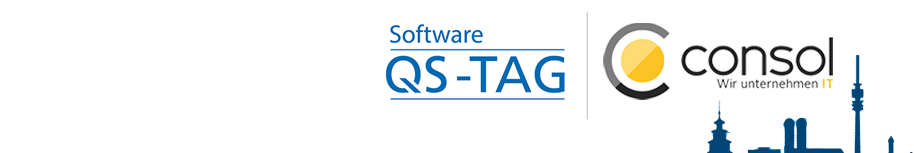
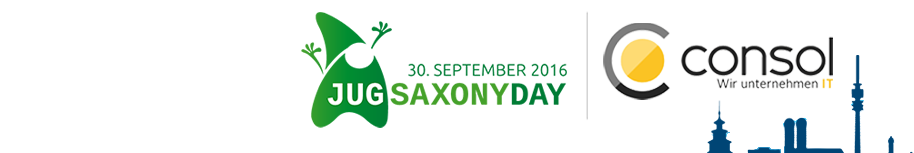
update for jug saxony day

Changed region(s): [[0.3063, 0.0784, 0.6433, 0.8366], [0.4289, 0.3137, 0.6127, 0.3399]]

diff --git a/index.html b/index.html
@@ -31,31 +31,24 @@
 <body>
 <div class="reveal">
     <div class="slides">
-        <section class="fully" data-background-image="pics/titelfolie_qs_tag_full.png">
-            <div style="width: 100%; height: 10em;"></div>
-            <!--<script>Reveal.configure({ controls: false });</script>-->
-            <!--<h2 style="padding-top: 2em; margin-bottom: 0;text-transform: none">-->
-            <!--Containerized End-2-End Testing-->
-            <!--</h2>-->
+        <section>
+            <h2 style="padding-top: 2em; margin-bottom: 0;text-transform: none">
+                Containerized End-2-End Testing
+            </h2>
 
-            <!--<h2 style="padding-top: 0.2em;">-->
-            <!--<img src="pics/sakuli-logo.png" style="width:5em; border: 0;box-shadow: none" alt="Sakuli">-->
-            <!--+-->
-            <!--<img src="pics/docker-img.jpg" style="width:5em; border: 0;box-shadow: none" alt="Docker">-->
-            <!--</h2>-->
+            <h2 style="padding-top: 0.2em;">
+                <img src="pics/sakuli-logo.png" style="width:5em; border: 0;box-shadow: none" alt="Sakuli">
+                +
+                <img src="pics/docker-img.jpg" style="width:5em; border: 0;box-shadow: none" alt="Docker">
+            </h2>
 
-            <!--&lt;!&ndash; Referent: Tobias Schneck, ConSol Software GmbH&ndash;&gt;-->
-            <!--<p style="padding-top: 6.5em; text-align: right">-->
-            <!--<small><a href="mailto:tobias.schneck@consol.de">Tobias Schneck</a>, <a-->
-            <!--href="http://www.consol.de">ConSol Software GmbH</a>-->
-            <!--</small>-->
-            <!--</br>-->
-            <!--</p>-->
-
-            <!--<div style="text-align: right; overflow: hidden; ">-->
-            <!--<img src="pics/background_first_slide_bottom.png"-->
-            <!--style="vertical-align:text-bottom; width:8em; border: 0;box-shadow: none"/>-->
-            <!--</div>-->
+            <!-- Referent: Tobias Schneck, ConSol Software GmbH-->
+            <p style="padding-top: 6.5em; text-align: right">
+                <small><a href="mailto:tobias.schneck@consol.de">Tobias Schneck</a>, <a
+                        href="http://www.consol.de">ConSol Software GmbH</a>
+                </small>
+                </br>
+            </p>
         </section>
 
         <section>
@@ -169,7 +162,7 @@
         <!--</section>-->
 
         <section>
-            <h1>2. Nutzen Container-Technologie</h1>
+            <h1>2. Nutzen<br/>Container-Technologie</h1>
         </section>
 
         <section>
@@ -276,7 +269,7 @@ docker run -it -p 5912:5901 -p 6912:6901 consol/centos-xfce-vnc
 
         <!--<section>-->
         <section>
-            <h1>3. Überblick Sakuli Framework</h1>
+            <h1>3. Überblick<br/>Sakuli Framework</h1>
         </section>
 
         <section>
@@ -421,7 +414,8 @@ docker run -it -p 5912:5901 -p 6912:6901 consol/centos-xfce-vnc
                     <td style="padding: 10px"></td>
                     <td width="47%" style="padding: 0; vertical-align: top; font-size: 0.7em">
                         <ul>
-                            <li>Aktionsbereich: <b>Bildschirm</b> -Inhalte <br/>(z.B. Rich-Clients, Browser-Plugins)</li>
+                            <li>Aktionsbereich: <b>Bildschirm</b> -Inhalte <br/>(z.B. Rich-Clients, Browser-Plugins)
+                            </li>
                             <li>Objekt-Adressierung über <br/><b>Image-Patterns</b> (Mini-Screenshots)</li>
                             <li>Off-Browser-Testing, sieht und steuert das, was der User sieht</li>
                             <li>Flexible Region-Patterns für die Navigation innerhalb des Bildschirms</li>
@@ -826,51 +820,38 @@ sakuli-tests/execute_all_4_monitoring.sh
         <section>
             <h2>Links</h2>
 
-            <table style="font-size: 0.8em">
+            <table style="font-size: 0.8em; padding-top: 0.5em">
                 <tr>
                     <td>
-                        <img src="pics/github.png" style="box-shadow: none; height: 7em; width: 100%">
+                        <img src="pics/github.png" style="box-shadow: none; height: 4em">
                     </td>
-                    <td style="vertical-align: middle">
+                    <td style="vertical-align: middle;  white-space:nowrap; padding-left: 1.5em">
                         <a href="https://github.com/ConSol/sakuli" target="_blank">
-                            <b>
-                                https://github.com/ConSol/sakuli
-                            </b>
+                            <img src="pics/github-mark.png" style="box-shadow: none; height: 35px"><b
+                                style="padding-left: 0.8em">ConSol/sakuli</b>
                         </a>
+
                         <br/>
 
                         <div style="padding-top: 0.5em"></div>
                         <a href="https://github.com/toschneck/sakuli-example-bakery-testing" target="_blank">
-                            <b>
-                                https://github.com/toschneck/sakuli-example-bakery-testing
-                            </b>
+                            <img src="pics/github-mark.png" style="box-shadow: none; height: 35px"><b
+                                style="padding-left: 0.8em">toschneck/sakuli-example-bakery-testing</b>
                         </a>
                     </td>
                 </tr>
                 <tr>
-                    <td>
-                        <div style="padding-top: 1.5em"></div>
-                    </td>
-                </tr>
-                <tr>
-                    <td style="text-align: center">
+                    <td/>
+                    <td style="padding-left: 1.5em">
+                        <div style="padding-top: 0.7em"></div>
+                        <a href="mailto:sakuli@consol.de">
+                            <img src="pics/mail_logo.png" style="box-shadow: none; height: 1.3em">
+                            <b>sakuli@consol.de</b>
+                        </a>
+                        <div style="padding-top: 0.2em"></div>
                         <a href="https://twitter.com/sakuli_e2e">
-                            <img src="pics/twitter_handle.png" style="box-shadow: none; height: 1em">
+                            <img src="pics/twitter_handle.png" style="padding-left:6px;box-shadow: none; height: 1em">
                         </a>
-                    </td>
-                    <td><a href="https://twitter.com/sakuli_e2e">
-                        <b>https://twitter.com/sakuli_e2e</b>
-                    </a>
-                    </td>
-                <tr>
-                    <td style="text-align: center">
-                        <a href="https://twitter.com/consol_de">
-                            <img src="pics/twitter_consol_de.png" style="box-shadow: none; height: 0.95em">
-                        </a>
-                    </td>
-                    <td><a href="https://twitter.com/consol_de">
-                        <b>https://twitter.com/consol_de</b>
-                    </a>
                     </td>
                 </tr>
             </table>
@@ -880,24 +861,38 @@ sakuli-tests/execute_all_4_monitoring.sh
         <!--<h1 class="coloured" style="text-transform: inherit">Fragen?</h1>-->
         <!--</section>-->
         <section>
-            <h1 class="coloured" style="text-transform: inherit">Danke Software-QS-Tag!</h1>
+            <h1 class="coloured" style="text-transform: inherit">Danke JUG Saxony Day!</h1>
 
-            <table style="font-size: x-large;margin-top: 4em" width="70%">
+            <table style="font-size: large;margin-top: 3.5em" width="50%">
                 <tr>
-                    <td style=" width: 30%;padding-right: 20px;  padding-top: 0.2em;">
-                        <img style="margin-right: 15px; float: left"
+                    <td style="text-align: center">
+                        <img style="box-shadow: none"
                              src="pics/profil_pic_sakuli.jpg">
                     </td>
-                    <td style="vertical-align: middle; line-height: 1.5em">
-                        <b>Tobias Schneck</b>
-                        <br/>
-                        <a style="float: left; padding-right: 1em;
-                        " href="mailto:tobias.schneck@consol.de">tobias.schneck@consol.de</a>
-                        <!--<br/>-->
-                        <a style="float: left; padding-left: 15px" href="https://twitter.com/toschneck">
-                            <img src="pics/twitter_toschneck.png"
-                                 style="vertical-align: top; box-shadow: none; height: 1.2em; margin-top: 0.25em">
-                        </a>
+                    <td style="padding-right: 1.5em"></td>
+                    <td style="vertical-align: middle">
+                        <table style="display: block">
+                            <tr>
+                                <td><b>Tobias Schneck</b></td>
+                            </tr>
+                            <tr>
+                                <td>
+                                    <a style="float: left; padding-right: 1em" href="mailto:tobias.schneck@consol.de"
+                                       target="_blank">tobias.schneck@consol.</a>
+                                </td>
+                            </tr>
+                            <tr>
+                                <td style="padding-top: 0.2em">
+                                    <a href="https://twitter.com/toschneck" target="_blank">
+                                        <img src="pics/twitter_toschneck.png" style="box-shadow: none; height: 22px">
+                                    </a>
+                                    <a style="padding-left: 1em" href="https://github.com/toschneck" target="_blank">
+                                        <img src="pics/github-mark.png" style="box-shadow: none; height: 22px"><b
+                                            style="padding-left: 0.4em; font-size: medium">toschneck</b>
+                                    </a>
+                                </td>
+                            </tr>
+                        </table>
                     </td>
                 </tr>
                 <tr>
@@ -905,8 +900,9 @@ sakuli-tests/execute_all_4_monitoring.sh
                         <img src="pics/consol_c.png"
                              style="padding-top: 3em; height: 5em; box-shadow: none;float: none">
                     </td>
-                    <td style="padding-top: 3em">
-                        <table style="">
+                    <td/>
+                    <td style="padding-top: 3em; vertical-align: middle">
+                        <table style="display: block; white-space:nowrap">
                             <tr>
                                 <td colspan="2"><b>ConSol Software GmbH</b></td>
                             </tr>
@@ -917,12 +913,23 @@ sakuli-tests/execute_all_4_monitoring.sh
                                 <td colspan="2">D-81669 München</td>
                             </tr>
                             <tr>
-                                <td>Tel: +49-89-45841-100</td>
+                                <td style="padding-right: 1em">Tel: +49-89-45841-100</td>
                                 <td><a href="mailto:info@consol.de">info@consol.de</a></td>
                             </tr>
                             <tr>
-                                <td style="padding-right: 20px">Fax: +49-89-45841-111</td>
+                                <td style="padding-right: 1em">Fax: +49-89-45841-111</td>
                                 <td><a href="http://www.consol.de">www.consol.de</a></td>
+                            </tr>
+                            <tr>
+                                <td colspan="2" style="padding-top: 0.2em">
+                                    <a href="https://twitter.com/consol_de" target="_blank">
+                                        <img src="pics/twitter_consol_de.png" style="box-shadow: none; height: 22px">
+                                    </a>
+                                    <a style="padding-left: 1em" href="https://github.com/consol" target="_blank">
+                                        <img src="pics/github-mark.png" style="box-shadow: none; height: 22px"><b
+                                            style="padding-left: 0.4em; font-size: medium">ConSol</b>
+                                    </a>
+                                </td>
                             </tr>
                         </table>
                     </td>
@@ -985,7 +992,7 @@ sakuli-tests/execute_all_4_monitoring.sh
     });
 
     //custom added functionality
-    isPrintingPdf = function() {
+    isPrintingPdf = function () {
         return ( /print-pdf/gi ).test(window.location.search);
     }
     Reveal.showControls = function () {
